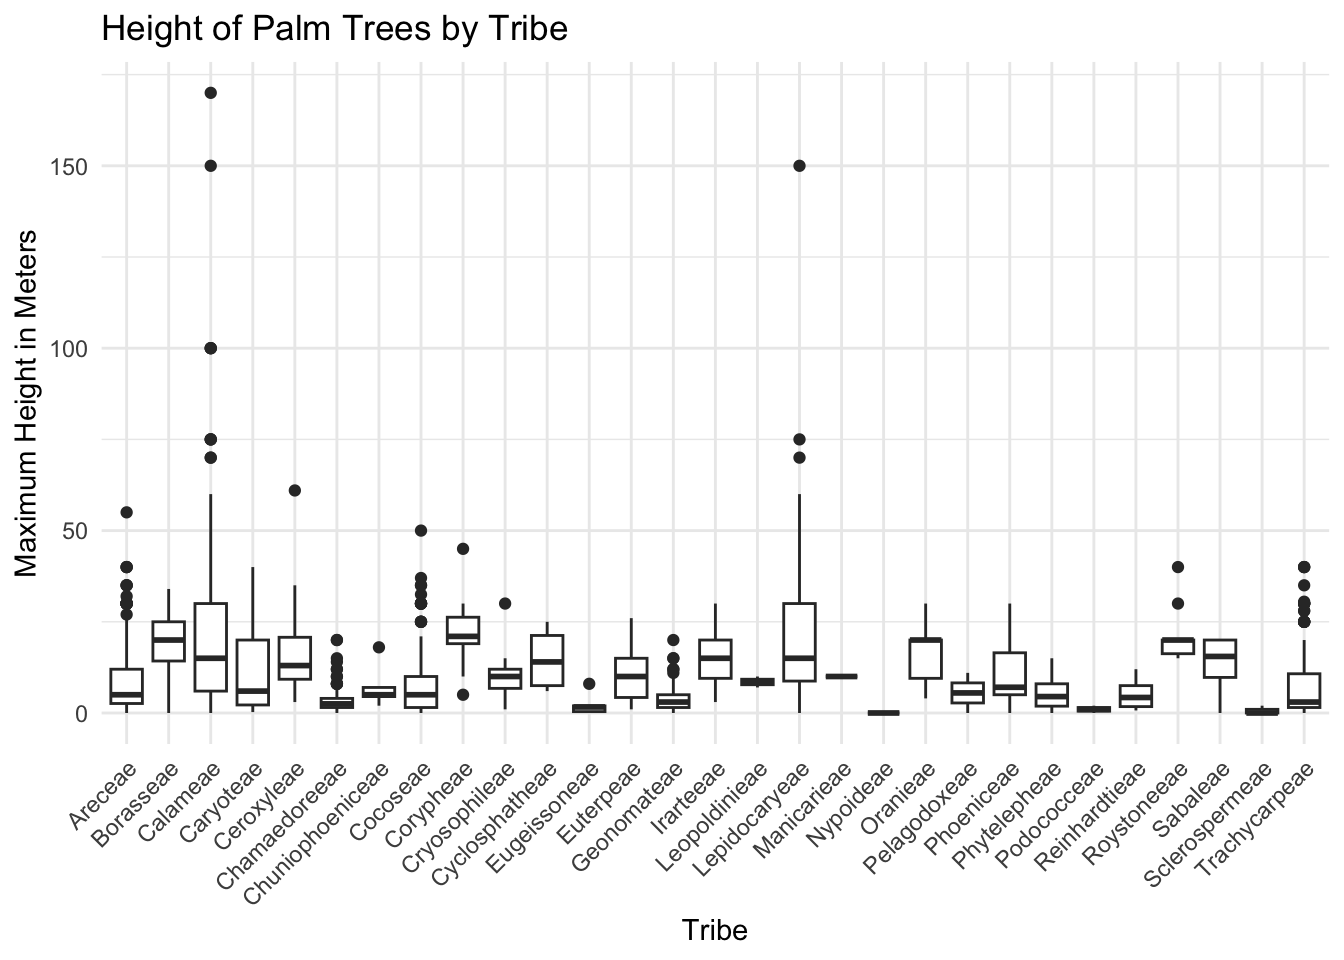
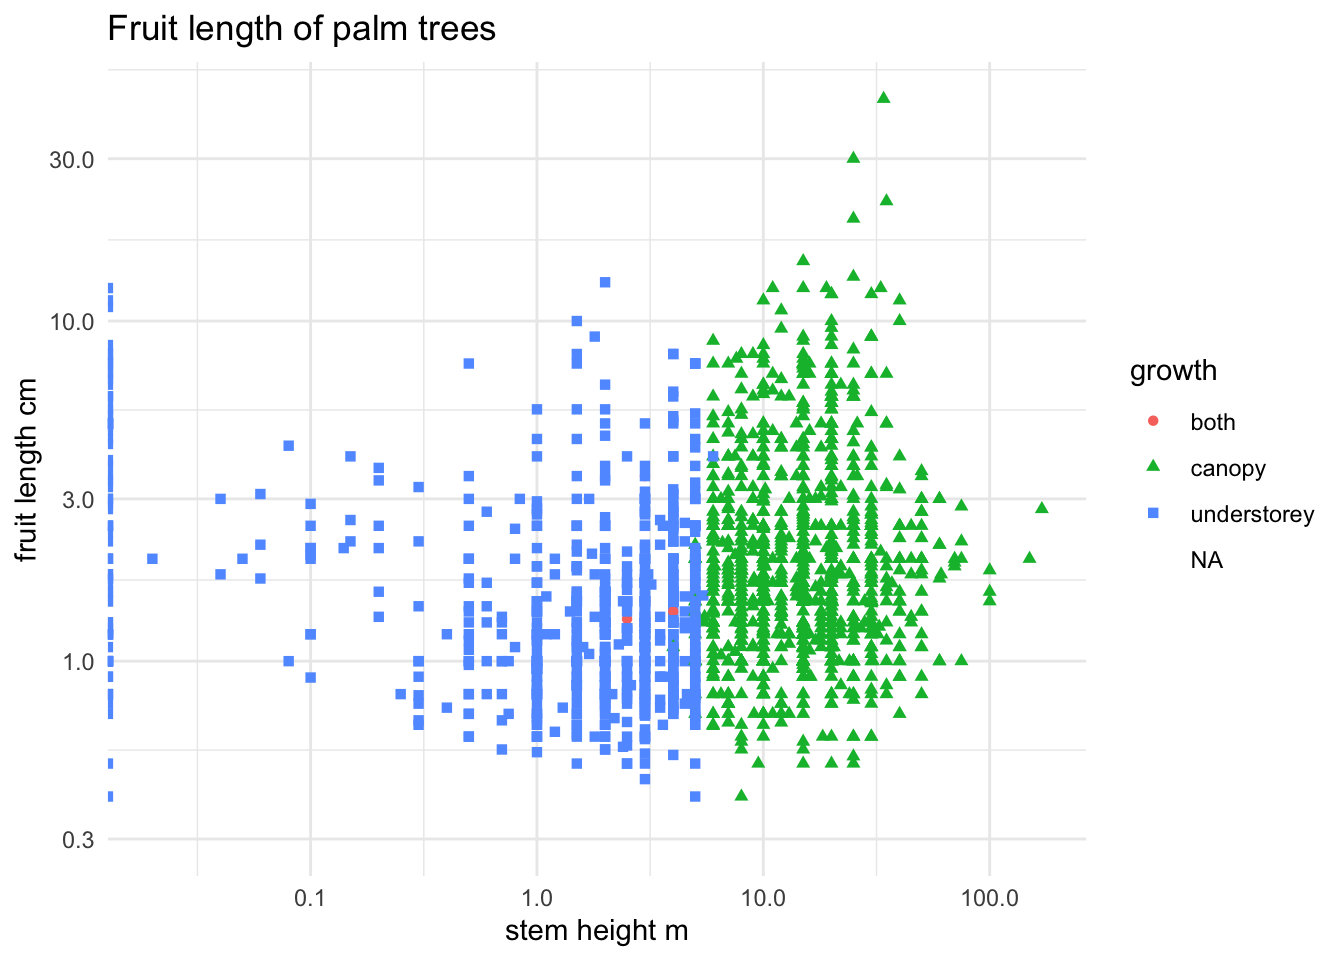
More palms

diff --git a/docs/palmtrees.html b/docs/palmtrees.html
@@ -171,6 +171,7 @@ ul.task-list li input[type="checkbox"] {
 <section id="palm-trees-can-be-tall-or-very-short" class="level1">
 <h1>Palm trees can be tall! Or very short…</h1>
 <p>Palm trees are quite variable in height ranging from 0 to 170 meters.</p>
+<p>Palm tress can be grouped by Tribes (a taxonomic rank between family and genus). Members of some tribes are taller than others.</p>
 <div class="cell">
 <div class="cell-output-display">
 <div>
@@ -180,7 +181,7 @@ ul.task-list li input[type="checkbox"] {
 </div>
 </div>
 </div>
-<p>Palm tress can be grouped by Tribes (a taxonomic rank between family and genus). Members of some tribes are taller than others. The tibble below shows the top and the bottom 5 tribes according to mean height.</p>
+<p>The tibble below shows the top and the bottom 5 tribes according to mean height.</p>
 <div class="cell">
 <div class="cell-output cell-output-stdout">
 <pre><code># A tibble: 10 × 4
